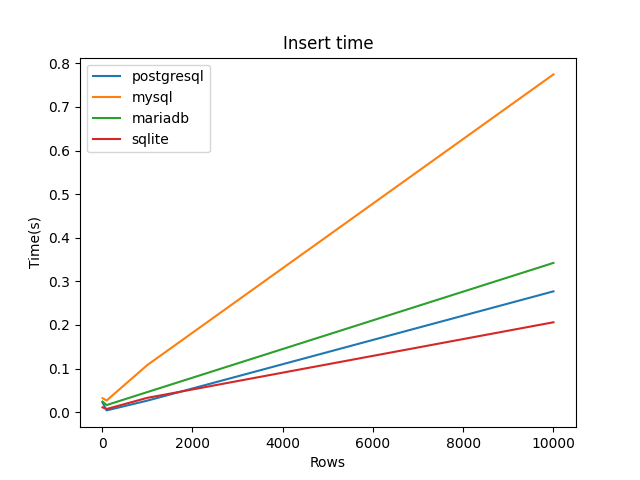
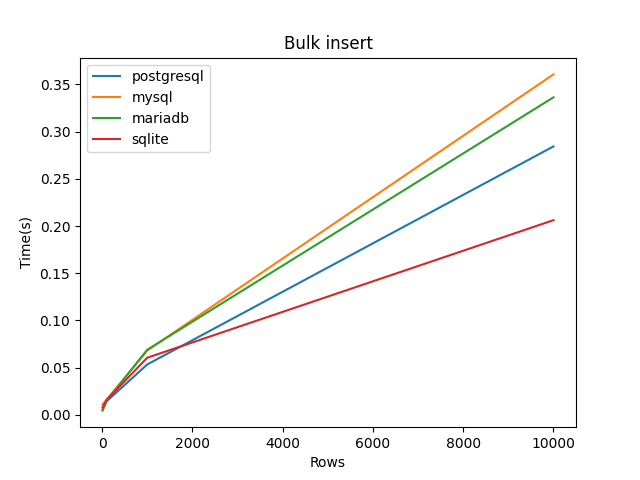
Added Delete,Update,Bulk update

diff --git a/tables/check/base.py b/tables/check/base.py
@@ -1,11 +1,14 @@
-from abc import abstractmethod
-from django.conf import settings
-from os import path
 import json
+from abc import abstractmethod
+from os import path
+
+import matplotlib.pyplot as plt
+from django.conf import settings
 
 
 class CheckBase:
     name = ''
+    graph_title = ''
 
     @abstractmethod
     def check_rows(self, row):
@@ -24,11 +27,33 @@ class CheckBase:
             ))
         return data
 
+    def file_name(self, engine, ):
+        return path.join(settings.BASE_DIR, f'reports/data/{engine}_{self.name}.json')
+
     def save_file(self, data):
-        file_name = path.join(settings.BASE_DIR, f'reports/data/{settings.DB_ENGINE}_{self.name}.json')
+        file_name = self.file_name(settings.DB_ENGINE)
         with open(file_name, 'w') as fs:
             json.dump(data, fs)
 
     def run(self):
         data = self.check_all()
         self.save_file(data)
+
+    def create_graph(self):
+        fig, ax = plt.subplots()
+        ax.set_ylabel('Time(s)')
+        ax.set_xlabel('Rows')
+        for engine in settings.DB_ENGINES:
+            file_name = self.file_name(engine, )
+            if not path.isfile(file_name):
+                continue
+            with open(file_name, 'r') as fs:
+                data = json.load(fs)
+                x = list(map(lambda item: item['rows'], data))
+                y = list(map(lambda item: item['time'], data))
+                ax.plot(x, y, label=engine)
+        ax.set_title(self.graph_title)
+        ax.legend()
+        file_name = path.join(settings.BASE_DIR, f'reports/graphs/{self.name}.png')
+        plt.savefig(path.join(settings.BASE_DIR, f'reports/graphs/{self.name}.png'), format='png')
+        print('file saved', file_name)

diff --git a/create_graph.py b/create_graph.py
@@ -1,38 +1,21 @@
-import os.path
+import json
+from os import path
+from pathlib import Path
 
 import matplotlib.pyplot as plt
-from pathlib import Path
-from os import path
-import json
 
 BASE_DIR = Path(__file__).resolve().parent
-DB_ENGINES = ['postgresql', 'mysql', 'mariadb','sqlite']
+
 
 
 def get_file_name(engin, name):
     return path.join(BASE_DIR, f'reports/data/{engin}_{name}.json')
 
 
-def create_graph(name):
-    fig, ax = plt.subplots()
-    ax.set_ylabel('Time(s)')
-    ax.set_xlabel('Rows')
-    for engin in DB_ENGINES:
-        file_name = get_file_name(engin, name)
-        if not path.isfile(file_name):
-            continue
-        with open(file_name, 'r') as fs:
-            data = json.load(fs)
-            x = list(map(lambda item: item['rows'], data))
-            y = list(map(lambda item: item['time'], data))
-            ax.plot(x, y, label=engin)
-    ax.set_title('Insert time')
-    ax.legend()
-    file_name = path.join(BASE_DIR, f'reports/graphs/{name}.png')
-    plt.savefig(path.join(BASE_DIR, f'reports/graphs/{name}.png'), format='png')
-    print('file saved', file_name)
+
 
 
 if __name__ == '__main__':
     create_graph('insert')
     create_graph('bulk_insert')
+    create_graph('bulk_delete')

diff --git a/tables/check/update.py b/tables/check/update.py
@@ -4,13 +4,15 @@ from tables.check.base import CheckBase
 from tables.models import SimpleTable
 
 
-class CheckInsert(CheckBase):
-    name = 'insert'
-    graph_title = 'Insert'
+class CheckUpdate(CheckBase):
+    name = 'update'
+    graph_title = 'Update'
 
     def check_rows(self, rows):
+        m = SimpleTable.objects.create(name='testname')
         start_time = time()
-        for _ in range(rows):
-            SimpleTable.objects.create(name='testname')
+        for i in range(rows):
+            m.name = f'name{i}'
+            m.save()
         time_taken = time() - start_time
         return time_taken

diff --git a/tables/check/bulk_update.py b/tables/check/bulk_update.py
@@ -9,12 +9,14 @@ def row_generator(rows):
         yield SimpleTable(name='testname')
 
 
-class CheckBulkInsert(CheckBase):
-    name = 'bulk_insert'
-    graph_title = 'Bulk insert'
+class CheckBulkUpdate(CheckBase):
+    name = 'bulk_update'
+    graph_title = 'Bulk update'
 
     def check_rows(self, rows):
-        start_time = time()
+        SimpleTable.objects.all().delete()
         SimpleTable.objects.bulk_create(row_generator(rows))
+        start_time = time()
+        SimpleTable.objects.all().update(name='newname')
         time_taken = time() - start_time
         return time_taken

diff --git a/tables/check/bulk_delete.py b/tables/check/bulk_delete.py
@@ -9,12 +9,14 @@ def row_generator(rows):
         yield SimpleTable(name='testname')
 
 
-class CheckBulkInsert(CheckBase):
-    name = 'bulk_insert'
-    graph_title = 'Bulk insert'
+class CheckBulkDelete(CheckBase):
+    name = 'bulk_delete'
+    graph_title = 'Bulk delete'
 
     def check_rows(self, rows):
-        start_time = time()
+        SimpleTable.objects.all().delete()
         SimpleTable.objects.bulk_create(row_generator(rows))
+        start_time = time()
+        SimpleTable.objects.all().delete()
         time_taken = time() - start_time
         return time_taken

diff --git a/tables/check/__init__.py b/tables/check/__init__.py
@@ -1,5 +1,8 @@
+from tables.check.bulk_update import CheckBulkUpdate
 from tables.check.insert import CheckInsert
 from tables.check.bulk_insert import CheckBulkInsert
+from tables.check.bulk_delete import CheckBulkDelete
+from tables.check.update import CheckUpdate
 
-ALL_CHECKS = (CheckInsert, CheckBulkInsert,)
+ALL_CHECKS = (CheckInsert, CheckBulkInsert, CheckBulkDelete, CheckUpdate, CheckBulkUpdate)
 ALL_NAMES = [x.name for x in ALL_CHECKS]

diff --git a/tables/management/commands/create_graph.py b/tables/management/commands/create_graph.py
@@ -1,0 +1,11 @@
+from time import sleep
+
+from django.core.management.base import BaseCommand
+
+from tables.check import ALL_CHECKS
+
+
+class Command(BaseCommand):
+    def handle(self, *args, **options):
+        for check in ALL_CHECKS:
+            check().create_graph()

diff --git a/benchmark/settings.py b/benchmark/settings.py
@@ -153,3 +153,4 @@ STATIC_URL = '/static/'
 DEFAULT_AUTO_FIELD = 'django.db.models.BigAutoField'
 
 ROWS_LIST = [10, 100, 1000, 10000]
+DB_ENGINES = ['postgresql', 'mysql', 'mariadb', 'sqlite']

diff --git a/README.md b/README.md
@@ -21,3 +21,20 @@ Smaller is better Here *PostgreSQL* wins
 Smaller is better Here *SQLite* wins
 
 ![Insert](media/graphs/bulk_insert.png)
+
+## Bulk Delete performance comparison 
+Smaller is better Here *SQLite* wins
+
+![Insert](media/graphs/bulk_delete.png)
+
+## Update performance comparison 
+Smaller is better Here *SQLite* wins
+
+![Insert](media/graphs/update.png)
+
+
+## Bulk update performance comparison 
+Smaller is better Here *SQLite* wins
+
+![Insert](media/graphs/bulk_update.png)
+
